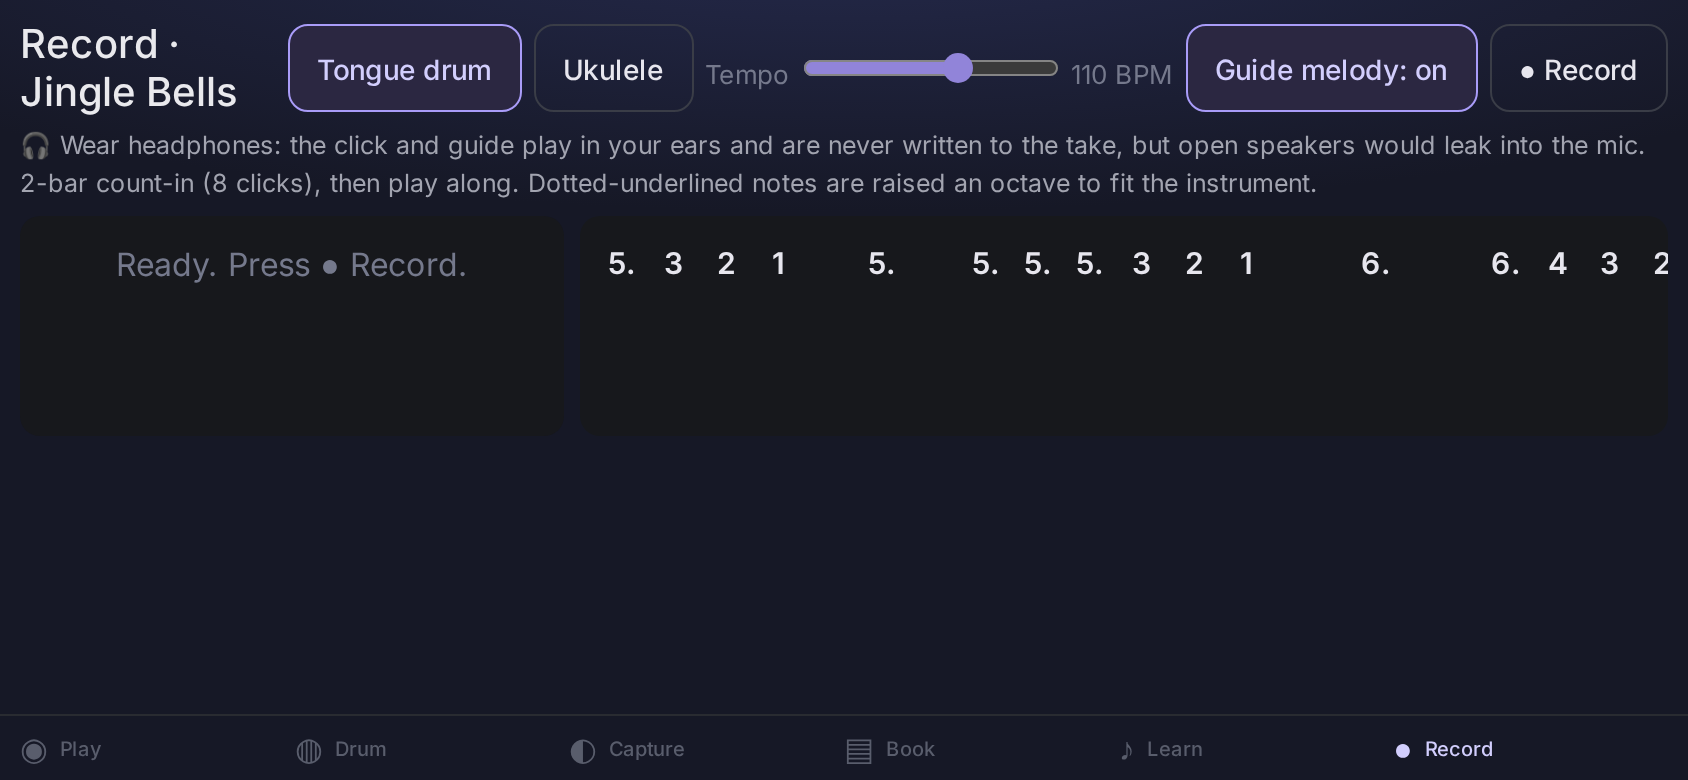
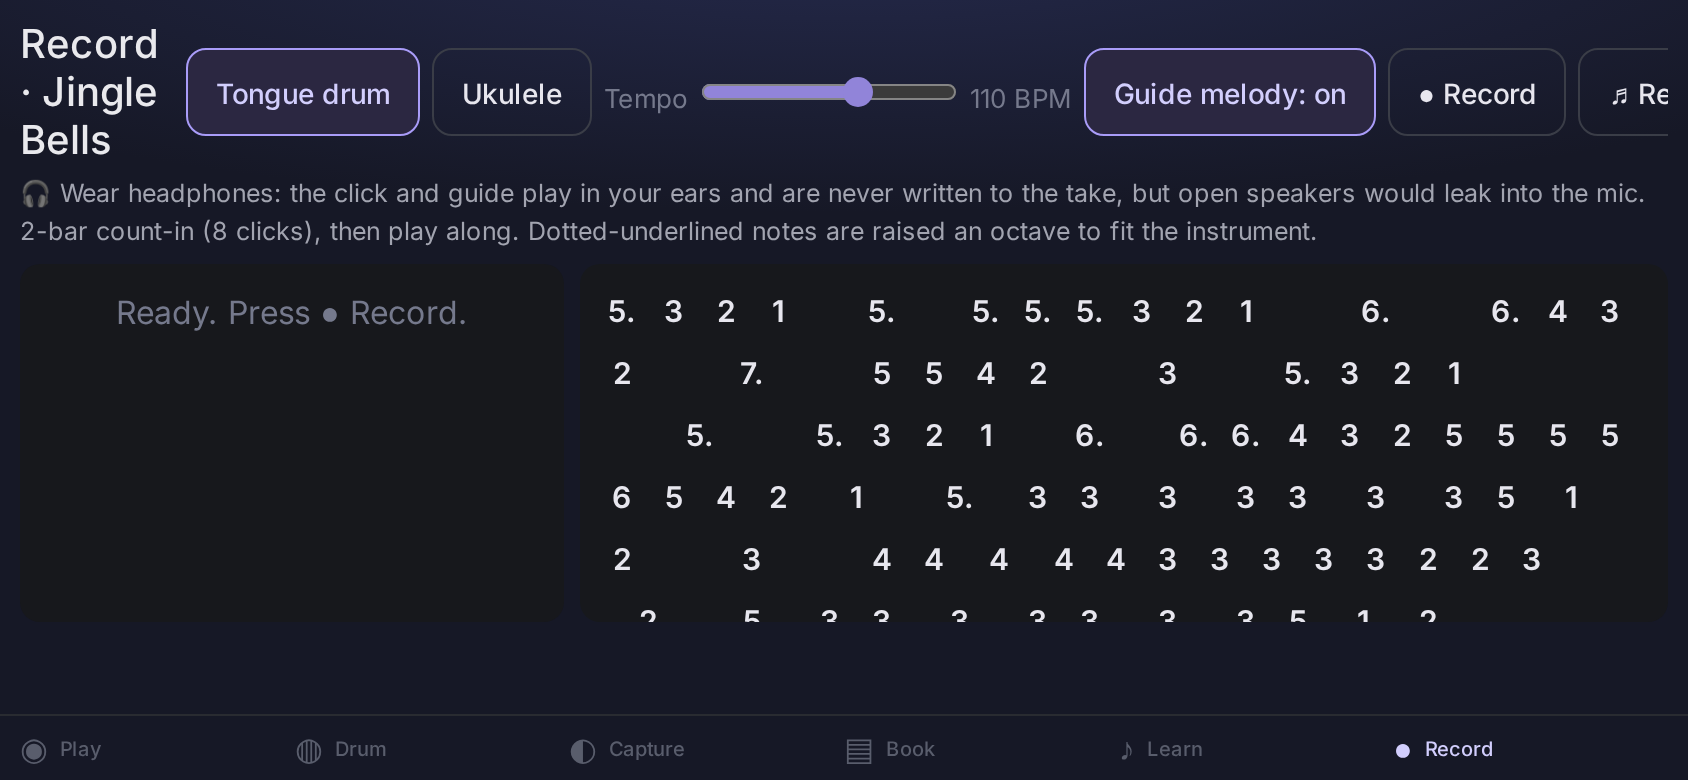
feat: app renders Jingle Bells itself — piano, tongue drum, ukulele WAV stems + ensemble mix

diff --git a/render.js b/render.js
@@ -1,0 +1,99 @@
+/* MelodyFlow — offline ensemble render.
+   Renders a song to three sample-aligned stems — piano, tongue drum, ukulele —
+   at one tempo, plus a stereo mix, as plain Float32Arrays. It is arithmetic on
+   arrays (no AudioContext), so it renders identically in the browser and in
+   node, faster than real time, and needs no samples at all: every sound here is
+   synthesised, so there is nothing to license.
+
+     tongue drum  the melody, at true pitch, with the app's own drum voice
+                  (the same partials the Drum screen plays).
+     ukulele      the chords, strummed D · DU · DU · D on real GCEA shapes,
+                  each string a Karplus–Strong plucked string.
+     piano        the melody an octave up plus a left-hand root/fifth,
+                  additive partials with a hammer click and a faster decay
+                  on the upper partials. */
+(function (root) {
+  'use strict';
+  const hz = (m) => 440 * Math.pow(2, (m - 69) / 12);
+  const NOTE = { C: 0, D: 2, E: 4, F: 5, G: 7, A: 9, B: 11 };
+  const midiOf = (n) => { const m = /^([A-G])([#b]?)(-?\d)$/.exec(n); return 12 * (+m[3] + 1) + NOTE[m[1]] + (m[2] === '#' ? 1 : m[2] === 'b' ? -1 : 0); };
+  // GCEA re-entrant: G4 C4 E4 A4 open; shapes as fret per string.
+  const UKE_OPEN = [67, 60, 64, 69];
+  const SHAPES = { C: [0, 0, 0, 3], F: [2, 0, 1, 0], G7: [0, 2, 1, 2], Dm: [2, 2, 1, 0], D7: [2, 2, 2, 3] };
+  const ROOT = { C: 48, F: 41, G7: 43, Dm: 50, D7: 50 };
+
+  function rng(seed) { let s = seed >>> 0; return () => ((s = (s * 1664525 + 1013904223) >>> 0) / 4294967296); }
+
+  function addTone(buf, sr, t, f, dur, gain, partials, decay) {
+    const i0 = Math.floor(t * sr), n = Math.min(buf.length - i0, Math.floor((dur + 0.02) * sr));
+    for (const [mul, amp, dk] of partials) {
+      const w = 2 * Math.PI * f * mul / sr, k = (dk || 1) * decay / sr;
+      for (let i = 0; i < n; i++) {
+        const att = i < sr * 0.005 ? i / (sr * 0.005) : 1, rel = i > n - sr * 0.02 ? (n - i) / (sr * 0.02) : 1;
+        buf[i0 + i] += gain * amp * att * rel * Math.exp(-k * i) * Math.sin(w * i);
+      }
+    }
+  }
+
+  function pluck(buf, sr, t, f, gain, rand, ring = 1.6) {
+    const N = Math.max(2, Math.round(sr / f)), line = new Float32Array(N);
+    for (let i = 0; i < N; i++) line[i] = rand() * 2 - 1;
+    const i0 = Math.floor(t * sr), n = Math.min(buf.length - i0, Math.floor(ring * sr));
+    let p = 0, prev = 0;
+    const damp = 0.996, bright = 0.5;
+    for (let i = 0; i < n; i++) {
+      const cur = line[p], next = line[(p + 1) % N];
+      const v = damp * (bright * cur + (1 - bright) * next);
+      line[p] = v; p = (p + 1) % N;
+      const lp = prev + 0.6 * (cur - prev); prev = lp;
+      const fade = i > n - sr * 0.05 ? (n - i) / (sr * 0.05) : 1;
+      buf[i0 + i] += gain * lp * fade;
+    }
+  }
+
+  function render(song, bpm, opts = {}) {
+    const sr = opts.sampleRate || 44100, spb = 60 / bpm, bpb = song.beatsPerBar || 4;
+    const beats = song.notes.reduce((a, [, d]) => a + d, 0), tail = 2.5;
+    const len = Math.ceil((beats * spb + tail) * sr);
+    const drum = new Float32Array(len), piano = new Float32Array(len), ukulele = new Float32Array(len);
+    const rand = rng(1857);
+    let b = 0;
+    for (const [name, d] of song.notes) {
+      const t = b * spb, m = midiOf(name);
+      // tongue drum: app partials, ring ~1.6 s, struck firmly
+      addTone(drum, sr, t, hz(m), 1.8, 0.32, [[1, 1, 1], [2.02, 0.3, 1.6], [3.01, 0.1, 2.2], [5.43, 0.035, 3]], 2.2);
+      // piano melody up an octave
+      addTone(piano, sr, t, hz(m + 12), Math.min(2.2, d * spb + 0.6), 0.18,
+        [[1, 1, 1], [2.001, 0.5, 1.5], [3.003, 0.25, 2.2], [4.006, 0.12, 3], [5.01, 0.06, 4], [6.02, 0.03, 5]], 1.6);
+      // hammer click
+      const i0 = Math.floor(t * sr); for (let i = 0; i < sr * 0.004 && i0 + i < len; i++) piano[i0 + i] += 0.02 * (rand() * 2 - 1) * (1 - i / (sr * 0.004));
+      b += d;
+    }
+    const strum = [[0, 'D'], [1, 'D'], [1.5, 'U'], [2, 'D'], [2.5, 'U'], [3, 'D']];
+    song.chords.forEach((c, bar) => {
+      const t0 = bar * bpb * spb, frets = SHAPES[c];
+      for (const [beat, dir] of strum) {
+        const order = dir === 'D' ? [0, 1, 2, 3] : [3, 2, 1, 0], g = dir === 'D' ? 0.16 : 0.1;
+        order.forEach((s, k) => pluck(ukulele, sr, t0 + beat * spb + k * 0.012, hz(UKE_OPEN[s] + frets[s]), g, rand, 1.2));
+      }
+      // piano left hand: root on 1, fifth on 3
+      const r = ROOT[c];
+      addTone(piano, sr, t0, hz(r), 2 * spb + 0.3, 0.16, [[1, 1, 1], [2, 0.45, 1.6], [3, 0.2, 2.4], [4, 0.08, 3]], 1.4);
+      addTone(piano, sr, t0 + 2 * spb, hz(r + 7), 2 * spb + 0.3, 0.12, [[1, 1, 1], [2, 0.45, 1.6], [3, 0.2, 2.4]], 1.4);
+    });
+    const stems = { piano, drum, ukulele };
+    for (const k in stems) normalize(stems[k], 0.7);
+    const pan = { piano: -0.35, drum: 0, ukulele: 0.35 }, lvl = { piano: 0.75, drum: 0.95, ukulele: 0.7 };
+    const L = new Float32Array(len), R = new Float32Array(len);
+    for (const k in stems) {
+      const a = (pan[k] + 1) * Math.PI / 4, gl = Math.cos(a) * lvl[k], gr = Math.sin(a) * lvl[k], s = stems[k];
+      for (let i = 0; i < len; i++) { L[i] += s[i] * gl; R[i] += s[i] * gr; }
+    }
+    const peak = Math.max(peakOf(L), peakOf(R)); if (peak > 0.89) { const g = 0.89 / peak; for (let i = 0; i < len; i++) { L[i] *= g; R[i] *= g; } }
+    return { sampleRate: sr, stems, mix: [L, R], seconds: len / sr };
+  }
+  function peakOf(a) { let p = 0; for (let i = 0; i < a.length; i++) { const v = Math.abs(a[i]); if (v > p) p = v; } return p; }
+  function normalize(a, to) { const p = peakOf(a); if (p > 0) { const g = to / p; for (let i = 0; i < a.length; i++) a[i] *= g; } }
+
+  root.MF_RENDER = { render, midiOf, SHAPES, peakOf };
+})(typeof globalThis !== 'undefined' ? globalThis : this);

diff --git a/record.js b/record.js
@@ -129,7 +129,8 @@
         ${btn('inst', 'drum', 'Tongue drum', S.inst === 'drum')}${btn('inst', 'ukulele', 'Ukulele', S.inst === 'ukulele')}
         <label style="font:400 13px Inter,sans-serif;color:${DIM}">Tempo <input data-r="bpm" type="range" min="60" max="140" value="${S.bpm}" ${busy ? 'disabled' : ''}> ${S.bpm} BPM</label>
         ${btn('guide', '', S.guide ? 'Guide melody: on' : 'Guide melody: off', S.guide)}
-        ${btn('go', '', busy ? '■ Stop' : '● Record', busy)}</div>
+        ${btn('go', '', busy ? '■ Stop' : '● Record', busy)}
+        ${root.MF_RENDER ? btn('render', '', '♫ Render ensemble (WAV stems + mix)', false) : ''}</div>
       <div style="font:400 12.5px/1.5 Inter,sans-serif;color:#a2a4b0">🎧 Wear headphones: the click and guide play in your ears and are never written to the take, but open speakers would leak into the mic. 2-bar count-in (8 clicks), then play along. Dotted-underlined notes are raised an octave to fit the instrument.</div>
       <div class="mf-record-stage">
         <div data-rec-now style="background:#17181c;border-radius:10px;padding:14px;text-align:center;color:${ACC};min-height:110px">
@@ -197,6 +198,26 @@
     setTimeout(() => URL.revokeObjectURL(url), 5000);
   }
 
+  /** The app renders the song itself: piano, tongue drum and ukulele stems at
+      the chosen tempo, plus a stereo mix — all WAV, all sample-aligned. */
+  function renderEnsemble() {
+    S.msg = 'Rendering…'; draw();
+    setTimeout(() => {
+      const r = root.MF_RENDER.render(SONG, S.bpm);
+      const save = (chs, name) => {
+        const url = URL.createObjectURL(new Blob([encodeWav(chs, r.sampleRate)], { type: 'audio/wav' }));
+        const a = root.document.createElement('a'); a.href = url; a.download = name; a.click();
+        setTimeout(() => URL.revokeObjectURL(url), 10000);
+      };
+      const base = `jingle-bells_${S.bpm}bpm`;
+      save([r.stems.piano], `${base}_piano_stem.wav`);
+      save([r.stems.drum], `${base}_tongue-drum_stem.wav`);
+      save([r.stems.ukulele], `${base}_ukulele_stem.wav`);
+      save(r.mix, `${base}_ensemble_mix.wav`);
+      S.msg = `Rendered ${Math.round(r.seconds)} s: three stems and a mix.`; draw();
+    }, 30);
+  }
+
   function onClick(ev) {
     const t = ev.target.closest('[data-r]'); if (!t || !host.contains(t)) return;
     switch (t.dataset.r) {
@@ -204,6 +225,7 @@
       case 'guide': S.guide = !S.guide; draw(); break;
       case 'go': S.state === 'idle' ? start() : stopRec(); break;
       case 'wav': downloadWav(); break;
+      case 'render': renderEnsemble(); break;
     }
   }
   function onInput(ev) { if (ev.target.dataset && ev.target.dataset.r === 'bpm') { S.bpm = +ev.target.value; draw(); } }

diff --git a/index.html b/index.html
@@ -90,6 +90,7 @@ input[type=range]{accent-color:var(--color-accent);background:transparent}
 <script src="songbook.js"></script>
 <script src="listen.js"></script>
 <script src="learn.js"></script>
+<script src="render.js"></script>
 <script src="record.js"></script>
 <script>
 "use strict";

diff --git a/sw.js b/sw.js
@@ -17,6 +17,7 @@ const ASSETS = [
   './songbook.js',
   './listen.js',
   './learn.js',
+  './render.js',
   './record.js',
   './manifest.webmanifest',
   './icon.svg',
